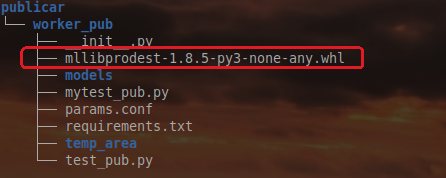
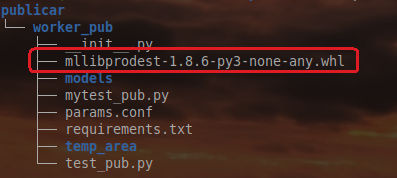
Pequenas correções em imagem e texto

diff --git a/UPDATE_VERSIONS.md b/UPDATE_VERSIONS.md
@@ -204,7 +204,7 @@ Perceba que a pasta **publicar** foi copiada para dentro da pasta da Stack, conf
 
 ![alt text](docs/pasta_stack_modelo.png)
 
-Caso tenha sido atualizada, observe o destaque para o arquivo da mllibprodest dentro das pastas dos ***workers* pub e retrain**, que estão dentro da pasta **publicar**, conforme instruido no **passo 4.4**.
+Caso tenha sido atualizada, observe o destaque para o arquivo da mllibprodest dentro das pastas dos ***workers* pub e retrain**, que estão dentro da pasta **publicar**, conforme instruído no **passo 4.4**.
 
 ![alt text](docs/pasta_stack_mllib_modelo.png)
 
@@ -382,7 +382,7 @@ git add .
 git commit -m "MENSAGEM INFORMATIVA"
 git push
 ```
-Onde: **"MENSAGEM INFORMATIVA"** é uma mensgem que descreva o *commit* realizado.
+Onde: **"MENSAGEM INFORMATIVA"** é uma mensagem que descreva o *commit* realizado.
 
 
 ### 10.2 Crie um *pull request*
